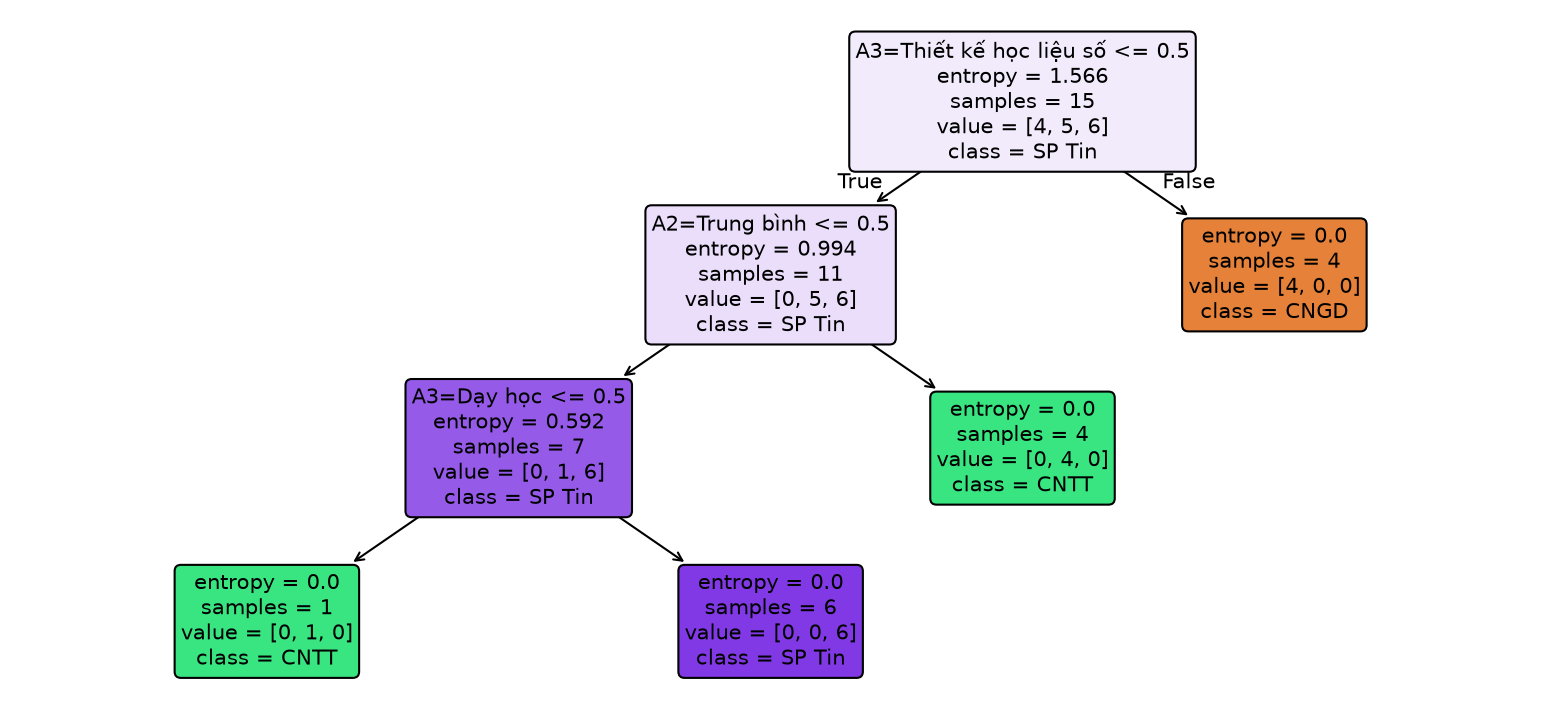
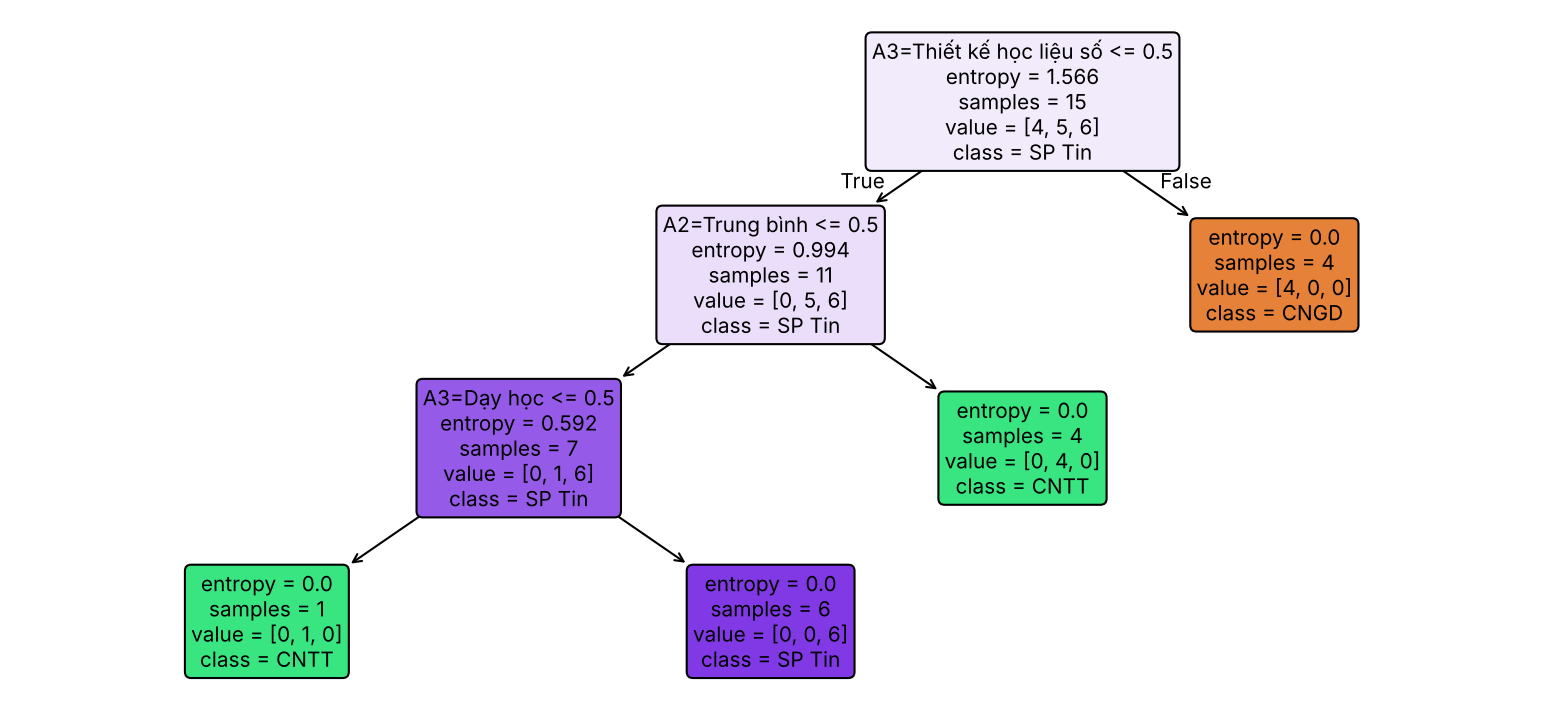
C2: sửa file kiểm chứng cây quyết định bằng scikit-learn
- Đổi tên thành kiem_chung_sklearn.py để chạy được bằng python -m
- Dữ liệu khảo sát tách ra data/survey.csv
- In entropy và IG hai tầng đầu để đối chiếu tính tay
- Không dùng module nội bộ sklearn.tree._tree; rút luật trước khi hiện hình
- Hình cây lưu vào docs/hinh/

Claude-Session: https://claude.ai/code/session_018JoVXzzcQnF48wWRLwsRHi

diff --git a/src/advisor/kiem_chung_sklearn.py b/src/advisor/kiem_chung_sklearn.py
@@ -1,100 +1,99 @@
-import pandas as pd
+# AI-assisted: Claude (Anthropic) – rà soát, sửa lỗi và tái cấu trúc; thuật toán do nhóm viết và đã kiểm tra lại.
+import math
+from pathlib import Path
+
 import matplotlib.pyplot as plt
-import os
-THU_MUC = os.path.dirname(os.path.abspath(__file__))
-from sklearn.tree import DecisionTreeClassifier, export_text, plot_tree, _tree
+import pandas as pd
+from sklearn.tree import DecisionTreeClassifier, export_text, plot_tree
 
-# ----------------------------------------------------------------------
-# 1. DU LIEU KHAO SAT
-# ----------------------------------------------------------------------
+GOC = Path(__file__).resolve().parents[2]
+DU_LIEU = GOC / "data" / "survey.csv"
+HINH = GOC / "docs" / "hinh" / "cay_quyet_dinh_sklearn.png"
+
 TEN = {"A1": "Tổ hợp", "A2": "Điểm", "A3": "Lĩnh vực", "A4": "Định hướng"}
+NHAN = "Y"
 
-data = [
-    ("A01", "Cao",        "Dạy học",              "Giáo dục",     "SP Tin"),
-    ("A01", "Cao",        "Thiết kế học liệu số", "Doanh nghiệp", "CNGD"),
-    ("A01", "Cao",        "Dạy học",              "Giáo dục",     "SP Tin"),
-    ("A01", "Cao",        "Dạy học",              "Giáo dục",     "SP Tin"),
-    ("D07", "Trung bình", "Dạy học",              "Giáo dục",     "CNTT"),
-    ("A01", "Trung bình", "Dạy học",              "Giáo dục",     "CNTT"),
-    ("D07", "Cao",        "Lập trình",            "Nghiên cứu",   "CNTT"),
-    ("A01", "Trung bình", "Dạy học",              "Giáo dục",     "CNTT"),
-    ("D07", "Cao",        "Dạy học",              "Giáo dục",     "SP Tin"),
-    ("A01", "Cao",        "Dạy học",              "Nghiên cứu",   "SP Tin"),
-    ("A01", "Trung bình", "Thiết kế học liệu số", "Nghiên cứu",   "CNGD"),
-    ("D07", "Cao",        "Thiết kế học liệu số", "Doanh nghiệp", "CNGD"),
-    ("A01", "Trung bình", "Thiết kế học liệu số", "Giáo dục",     "CNGD"),
-    ("A01", "Cao",        "Dạy học",              "Giáo dục",     "SP Tin"),
-    ("A01", "Trung bình", "Lập trình",            "Doanh nghiệp", "CNTT"),
-]
-df = pd.DataFrame(data, columns=["A1", "A2", "A3", "A4", "Y"])
 
-# ----------------------------------------------------------------------
-# 2. MA HOA ONE-HOT (scikit-learn chi lam viec voi so)
-#    Vi du: A3 -> 3 cot "A3=Dạy học", "A3=Lập trình", "A3=Thiết kế học liệu số"
-# ----------------------------------------------------------------------
-X = pd.get_dummies(df[["A1", "A2", "A3", "A4"]], prefix_sep="=")
-y = df["Y"]
+def entropy(nhan: pd.Series) -> float:
+    return -sum(p * math.log2(p) for p in nhan.value_counts(normalize=True) if p > 0)
 
-# ----------------------------------------------------------------------
-# 3. HUAN LUYEN CAY VOI TIEU CHI ENTROPY
-# ----------------------------------------------------------------------
-model = DecisionTreeClassifier(criterion="entropy", random_state=0)
-model.fit(X, y)
 
-# ----------------------------------------------------------------------
-# 4. IN KET QUA DE DOI CHIEU VOI PHAN TINH TAY
-# ----------------------------------------------------------------------
-print("===== CÂY QUYẾT ĐỊNH (scikit-learn) =====")
-print(export_text(model, feature_names=list(X.columns)))
+def do_loi(df: pd.DataFrame, a: str) -> float:
+    return entropy(df[NHAN]) - sum(len(g) / len(df) * entropy(g[NHAN]) for _, g in df.groupby(a))
 
-t = model.tree_
-print("Entropy tại nút gốc      :", round(t.impurity[0], 4), "   (tính tay: 1,5656)")
-print("Thuộc tính tại nút gốc   :", X.columns[t.feature[0]], "   (tính tay: A3 - Lĩnh vực)")
-print("Độ chính xác trên 15 mẫu :", f"{int(model.score(X, y) * len(y))}/{len(y)}")
 
-plt.figure(figsize=(13, 6))
-plot_tree(model, feature_names=list(X.columns), class_names=list(model.classes_),
-          filled=True, rounded=True, fontsize=10)
-plt.savefig(os.path.join(THU_MUC, "cay_sklearn.png"), dpi=150, bbox_inches="tight")
-plt.show()
+def in_hai_tang(df: pd.DataFrame) -> None:
+    print(f"===== ID3 TẦNG 1 (đối chiếu tính tay) =====\nH(S) = {entropy(df[NHAN]):.4f}")
+    ig = {a: do_loi(df, a) for a in TEN}
+    for a, v in ig.items():
+        print(f"  IG(S, {a} - {TEN[a]}) = {v:.4f}")
+    goc = max(ig, key=ig.get)
+    print(f"Nút gốc: {goc} - {TEN[goc]}\n\n===== ID3 TẦNG 2 =====")
+    for gia_tri, g in df.groupby(goc):
+        h = entropy(g[NHAN])
+        if h == 0:
+            print(f"  {goc} = {gia_tri}: H = 0, lá {g[NHAN].iloc[0]} ({len(g)} mẫu)")
+            continue
+        ig2 = {a: do_loi(g, a) for a in TEN if a != goc}
+        chon = max(ig2, key=ig2.get)
+        chi_tiet = ", ".join(f"IG({a}) = {v:.4f}" for a, v in ig2.items())
+        print(f"  {goc} = {gia_tri}: H = {h:.4f}; {chi_tiet} -> chọn {chon} - {TEN[chon]}")
 
-# ----------------------------------------------------------------------
-# 5. RUT TRICH TAP LUAT
-#    Moi duong di tu goc den la = 1 luat. Duyet cay bang de quy.
-# ----------------------------------------------------------------------
-GIA_TRI = {A: list(df[A].unique()) for A in TEN}   
 
-def duyet(nut, dieu_kien, ds_luat):
-    if t.feature[nut] == _tree.TREE_UNDEFINED:        
-        nganh = model.classes_[t.value[nut][0].argmax()]
-        ds_luat.append((dieu_kien, nganh, int(t.n_node_samples[nut])))
-        return
-    A, v = X.columns[t.feature[nut]].split("=", 1)      
-    duyet(t.children_left[nut],  dieu_kien + [(A, "≠", v)], ds_luat) 
-    duyet(t.children_right[nut], dieu_kien + [(A, "=", v)], ds_luat)   
+def rut_luat(model: DecisionTreeClassifier, cot: list[str], gia_tri: dict) -> list[tuple[list[str], str, int]]:
+    t = model.tree_
 
-def rut_gon(dieu_kien):
-    """Gop cac dieu kien cung thuoc tinh cho de doc.
-       Vd: A2 ≠ Trung bình  ->  A2 = Cao (vi A2 chi co 2 gia tri)"""
-    ket_qua = []
-    thu_tu = list(dict.fromkeys(a for a, _, _ in dieu_kien))  
-    for A in thu_tu:
-        con_lai = list(GIA_TRI[A])
-        for (a, phep, v) in dieu_kien:
-            if a != A:
-                continue
-            con_lai = [v] if phep == "=" else [x for x in con_lai if x != v]
-        if len(con_lai) == len(GIA_TRI[A]):
-            continue                                    
-        if len(con_lai) == 1:
-            ket_qua.append(f"{TEN[A]} = {con_lai[0]}")
-        else:
-            ket_qua.append(f"{TEN[A]} ∈ {{{', '.join(con_lai)}}}")
-    return ket_qua
+    def gop(dieu_kien):
+        ket_qua = []
+        for a in dict.fromkeys(x for x, _, _ in dieu_kien):
+            con_lai = list(gia_tri[a])
+            for x, phep, v in dieu_kien:
+                if x == a:
+                    con_lai = [v] if phep == "=" else [c for c in con_lai if c != v]
+            if len(con_lai) == 1:
+                ket_qua.append(f"{TEN[a]} = {con_lai[0]}")
+            elif len(con_lai) < len(gia_tri[a]):
+                ket_qua.append(f"{TEN[a]} ∈ {{{', '.join(con_lai)}}}")
+        return ket_qua
 
-ds_luat = []
-duyet(0, [], ds_luat)
+    def duyet(nut, dieu_kien, luat):
+        if t.children_left[nut] == t.children_right[nut]:
+            luat.append((gop(dieu_kien), model.classes_[t.value[nut][0].argmax()], int(t.n_node_samples[nut])))
+            return
+        a, v = cot[t.feature[nut]].split("=", 1)
+        duyet(t.children_left[nut], dieu_kien + [(a, "≠", v)], luat)
+        duyet(t.children_right[nut], dieu_kien + [(a, "=", v)], luat)
 
-print("\n===== TẬP LUẬT RÚT TRÍCH TỪ CÂY SCIKIT-LEARN =====")
-for i, (dk, nganh, n) in enumerate(ds_luat, 1):
-    print(f"R{i}: IF {' AND '.join(rut_gon(dk))} THEN Ngành = {nganh}   ({n} mẫu)")
+    luat: list = []
+    duyet(0, [], luat)
+    return luat
+
+
+def main() -> None:
+    df = pd.read_csv(DU_LIEU)
+    in_hai_tang(df)
+
+    X = pd.get_dummies(df[list(TEN)], prefix_sep="=")
+    model = DecisionTreeClassifier(criterion="entropy", random_state=0).fit(X, df[NHAN])
+    t = model.tree_
+    print("\n===== CÂY QUYẾT ĐỊNH (scikit-learn, entropy) =====")
+    print(export_text(model, feature_names=list(X.columns)))
+    print(f"Entropy nút gốc: {t.impurity[0]:.4f}; tách đầu tiên: {X.columns[t.feature[0]]}")
+    print(f"Độ chính xác trên {len(df)} mẫu: {int(round(model.score(X, df[NHAN]) * len(df)))}/{len(df)}")
+
+    print("\n===== TẬP LUẬT RÚT TRÍCH =====")
+    gia_tri = {a: list(df[a].unique()) for a in TEN}
+    for i, (dk, nganh, n) in enumerate(rut_luat(model, list(X.columns), gia_tri), 1):
+        print(f"L{i}: IF {' AND '.join(dk)} THEN Ngành = {nganh}   ({n} mẫu)")
+
+    HINH.parent.mkdir(parents=True, exist_ok=True)
+    plt.figure(figsize=(13, 6))
+    plot_tree(model, feature_names=list(X.columns), class_names=list(model.classes_),
+              filled=True, rounded=True, fontsize=10)
+    plt.savefig(HINH, dpi=150, bbox_inches="tight")
+    print(f"\nĐã lưu hình cây: {HINH.relative_to(GOC)}")
+    plt.show()
+
+
+if __name__ == "__main__":
+    main()
